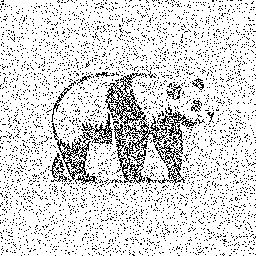
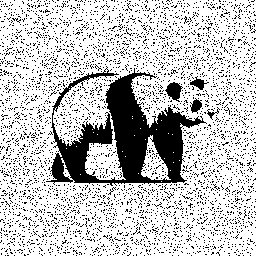
Cambios - Ejercicio 2.

Changed region(s): [[0.0, 0.0, 1.0, 1.0], [0.0, 0.0, 0.0312, 0.0312]]

diff --git a/Ejercicio2 -- se puede borrar.py b/Ejercicio2 -- se puede borrar.py
@@ -2,130 +2,127 @@ import numpy as np
 from PIL import Image
 
 def fourier_steganography_encode(cover_img_path, secret_img_path, output_path, secret_size=64):
-    # Cargar y redimensionar imágenes
     cover_img = np.array(Image.open(cover_img_path).convert('L'))
     secret_img = np.array(Image.open(secret_img_path).convert('L'))
     secret_img = Image.fromarray(secret_img).resize((secret_size, secret_size), Image.LANCZOS)
     secret_img = np.array(secret_img)
-    
-    # Binarizar la imagen secreta y aplanar (1 bit por píxel)
+
+    # Binarizar la imagen secreta
     secret_img_bin = (secret_img > 127).astype(np.uint8)
     secret_bits = secret_img_bin.flatten()
-    required_bits = secret_size * secret_size  # Solo 1 bit por píxel
-    
-    # FFT de la imagen portadora
+    required_bits = secret_size * secret_size
+
+    # Transformada de Fourier y shift
     fshift = np.fft.fftshift(np.fft.fft2(cover_img))
-    
-    # Obtener coordenadas circulares desde el centro
     rows, cols = fshift.shape
     center_row, center_col = rows // 2, cols // 2
     radius = min(center_row, center_col)
+
+    # Coordenadas dentro del círculo, evitando el centro
     coords = [
         (r, c)
         for r in range(rows)
         for c in range(cols)
-        if np.sqrt((r - center_row)**2 + (c - center_col)**2) < radius
+        if (r != center_row or c != center_col) and
+           (r < center_row or (r == center_row and c <= center_col)) and
+           np.sqrt((r - center_row)**2 + (c - center_col)**2) < radius
     ]
-    
-    # Verificar capacidad
-    available_bits = len(coords)
-    if available_bits < required_bits:
-        raise ValueError(f"Capacidad insuficiente: Se necesitan {required_bits} bits, solo hay {available_bits} disponibles")
-    
-    # Insertar bits modificando el signo de la parte real e imaginaria
+
+    if len(coords) < required_bits:
+        raise ValueError(f"Capacidad insuficiente: {len(coords)} bits disponibles, se requieren {required_bits}")
+
     modified = fshift.copy()
     for i in range(required_bits):
         r, c = coords[i]
+        bit = secret_bits[i]
         val = modified[r, c]
         a, b = val.real, val.imag
-        bit = secret_bits[i]
-        
-        if bit == 1:
-            a = -abs(a)  # Bit 1: ambos negativos
-            b = -abs(b)
-        else:
-            a = abs(a)   # Bit 0: ambos positivos
-            b = abs(b)
+
+        # Codificación por signo
+        a = -abs(a) if bit else abs(a)
+        b = -abs(b) if bit else abs(b)
         modified[r, c] = complex(a, b)
-    
-    # Transformada inversa para obtener imagen estego
+
+        # Reflejar para mantener simetría hermítica
+        rr = (2 * center_row - r) % rows
+        cc = (2 * center_col - c) % cols
+        modified[rr, cc] = np.conj(modified[r, c])
+
+    # Transformada inversa
     stego_img = np.abs(np.fft.ifft2(np.fft.ifftshift(modified)))
     stego_img = np.clip(stego_img, 0, 255).astype(np.uint8)
-    
-    # Guardar imagen estego
     Image.fromarray(stego_img).save(output_path)
-    print(f"[INFO] Imagen estego guardada en: {output_path}")
-    return secret_size  # Retornar tamaño para decodificación
+    return secret_size
+
 
 def fourier_steganography_decode(stego_img_path, output_path, secret_size):
-    # Calcular total de bits necesarios
-    total_bits = secret_size * secret_size  # Solo 1 bit por píxel
-    
-    # Cargar imagen estego
+    total_bits = secret_size * secret_size
     stego_img = np.array(Image.open(stego_img_path).convert('L'))
-    
-    # FFT
+
     fshift = np.fft.fftshift(np.fft.fft2(stego_img))
-    
-    # Extraer coordenadas circulares
     rows, cols = fshift.shape
     center_row, center_col = rows // 2, cols // 2
     radius = min(center_row, center_col)
+
     coords = [
         (r, c)
         for r in range(rows)
         for c in range(cols)
-        if np.sqrt((r - center_row)**2 + (c - center_col)**2) < radius
+        if (r != center_row or c != center_col) and
+           (r < center_row or (r == center_row and c <= center_col)) and
+           np.sqrt((r - center_row)**2 + (c - center_col)**2) < radius
     ]
-    
-    # Extraer bits usando el signo de la parte real e imaginaria
+
     extracted_bits = []
     for i in range(total_bits):
         r, c = coords[i]
-        a = fshift[r, c].real
-        b = fshift[r, c].imag
-        bit = 1 if (a < 0 or b < 0) else 0
+        val = fshift[r, c]
+        a, b = val.real, val.imag
+        if a * b < 0:
+            bit = 0  # signos opuestos → ruido
+        elif a < 0 and b < 0:
+            bit = 1
+        else:
+            bit = 0
         extracted_bits.append(bit)
-    
-    # Dar forma a la imagen secreta binaria
-    secret_img = np.array(extracted_bits[:secret_size * secret_size]).reshape((secret_size, secret_size)).astype(np.uint8)
-    # Multiplicar por 255 para que sea visible en blanco y negro
-    secret_img = (secret_img * 255).astype(np.uint8)
-    
-    # Guardar imagen recuperada
+
+    secret_img = np.array(extracted_bits).reshape((secret_size, secret_size)).astype(np.uint8) * 255
     Image.fromarray(secret_img).save(output_path)
-    print(f"[INFO] Imagen secreta recuperada guardada en: {output_path}")
+
+
+
+
 
 if __name__ == "__main__":
     # Configuración
     portadora = "portadora.png"
     secreta = "secreta.png"
-    estego = "estego.png"
+    estego = "estego_fourier.png"
     secreta_recuperada = "secreta_recuperada.png"
-    
+
     try:
         # Codificar (retorna tamaño usado para decodificación)
         secret_size = fourier_steganography_encode(
-            portadora, 
-            secreta, 
+            portadora,
+            secreta,
             estego,
             secret_size=256  # Cambiá este valor según el tamaño deseado de la secreta
         )
-        
+
         # Decodificar usando el mismo tamaño
         fourier_steganography_decode(
-            estego, 
-            secreta_recuperada, 
+            estego,
+            secreta_recuperada,
             secret_size=256
         )
-        
+
         # Mostrar resultados
         print("\nResultados:")
         print(f"- Tamaño de secreto usado: {secret_size}x{secret_size}")
         print(f"- Imagen recuperada guardada en: {secreta_recuperada}")
-        
+
         # Mostrar imágenes
         Image.open(secreta_recuperada).show()
-        
+
     except Exception as e:
         print(f"[ERROR] {e}")
